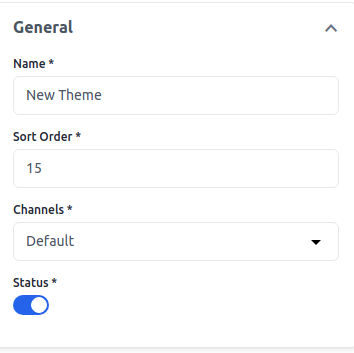
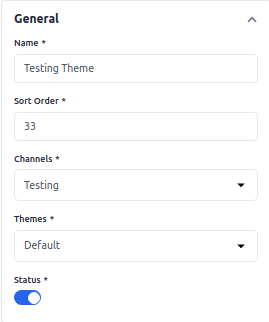
v2.2.0 Code Refactor

diff --git a/docs/2.2.0/configure/configurations.md b/docs/2.2.0/configure/configurations.md
@@ -295,6 +295,31 @@ After clicking on the **Save Configuration** button.
 
  ![Taxes](../../assets/2.2.0/images/configure/taxes.png)
 
+## Checkout
+
+Checkout configuration are listed below.
+
+### Shopping Cart
+
+Enable guest checkout, cart page, cross-sell products, and estimated shipping to enhance user convenience and streamline the shopping process for increased sales.
+
+ ![Checkout](../../assets/2.2.0/images/configure/checkout.png)
+
+### My Cart
+
+Enable settings for My Cart to show a summary of item quantities and display the total number of items in the cart for easy tracking. 
+
+  ![Checkout My Cart](../../assets/2.2.0/images/configure/checkoutMycart.png )
+
+### Mini Cart
+
+Enable Mini Cart settings to display the mini cart and show Mini Cart Offer Information for quick access to cart details and promotions.
+
+![miniCart](../../assets/2.2.0/images/configure/miniCart.png)
+
+
+
+
 ## Notifications
 
 "Notification" is a message or alert that informs users about events, updates, or actions, enhancing user engagement and awareness.
@@ -367,8 +392,14 @@ To add go to the Admin Panel and click on **Configure >> Order Settings**
 
 **Minimum Order Settings:-** Configured criteria specifying the lowest required quantity or value for an order to be processed or qualify for benefits.
 
+In the Order section added new configuration setting to that the order has Include Discount Amount, Include Tax to Amount and the Description in cart page.
+
  ![Order Settings](../../assets/2.2.0/images/configure/orderSettings.png)
 
+**Allow Reorder:-** Enable or disable the reordering feature for admin users.
+
+![Allow Reorder](../../assets/2.2.0/images/configure/allowReorder.png)
+ 
 After clicking on the **Save Configuration** button. 
 
 ## Invoice Settings

diff --git a/docs/2.2.0/settings/themes.md b/docs/2.2.0/settings/themes.md
@@ -4,6 +4,10 @@ The theme of the website is the overall look of it and that is why it plays a ma
 
 The theme contains different options like slider section with different slider options, Product section, Footer option, right-sidebar, Logo resizer option, Button settings, Blog Settings, Site preloader option, Related option, Icon changer option, full-width-template, color options, widgets, sidebar layouts, header.
 
+The theme_customizations table now supports customizations for multiple themes and multiple channels. This enhancement allows you to define different customizations for each theme and channel combination, providing greater flexibility and control over your application's appearance.
+
+Enhanced the theme customization section by adding a feature to filter attributes.
+
 ### Create Themes
 
 **Step 1:** It can be set on the admin panel by going to **Setting >> Themes**. Here you can create new role by clicking on the button **Create Theme** as shown in below image.
@@ -19,6 +23,8 @@ The theme contains different options like slider section with different slider o
 **3.Type:-** Select the Type from the dropdown according to your requirement.We have selected a product carousel in this
 
 **4.Channels:-** Select the Channel.
+
+**5.Themes:-** Select the Theme.
 
 Now click on **Save Theme** button and you will get redirected to type which you just selected.
 
@@ -44,7 +50,9 @@ Now click on **Save Theme** button and you will get redirected to type which you
 
 **3.Channels:-** Select the Channel.
 
-**4.Status** Enable the Status.
+**4.Themes** Select the themes.
+
+**5.Status** Enable the Status.
 
 ![General Theme](../../assets/2.2.0/images/settings/generalTheme.png)
 

diff --git a/docs/2.2.0/products/grouped.md b/docs/2.2.0/products/grouped.md
@@ -67,6 +67,13 @@ To add product images, click on Add Images. You can add multiple images for your
 
 ![image](../../assets/2.2.0/images/grouped-product/image.png)
 
+### Channels
+
+Select the channels in which you want to save this product.
+
+![Channels](../../assets/2.2.0/images/simple-product/channels.png)
+
+
 ### Grouped Products
 
 Search Products Under this **Search Product** section, you can simply search the Simple Product to in the Grouped Product. Once you added all the required products to the grouped product then all those simple products will be listed

diff --git a/docs/2.2.0/products/configurable.md b/docs/2.2.0/products/configurable.md
@@ -54,6 +54,12 @@ Add the product images, click on **Add Images**. You can add multiple images for
 
    ![Configurable](../../assets/2.2.0/images/configurable-product/image.png)
 
+### Channels
+
+Select the channels in which you want to save this product.
+
+![Channels](../../assets/2.2.0/images/simple-product/channels.png)
+
 ### Variations
 
 Now you will be able to see the **Variations** right below the video section as shown below. You can simply Edit each product as we have created according to the Color and Size.

diff --git a/docs/2.2.0/products/virtual.md b/docs/2.2.0/products/virtual.md
@@ -69,6 +69,12 @@ Add product images by clicking on **Add Images**. Multiple images can be added.
 
  ![image](../../assets/2.2.0/images/virtual-product/image.png)
 
+### Channels
+
+Select the channels in which you want to save this product.
+
+![Channels](../../assets/2.2.0/images/simple-product/channels.png)
+
 ### Inventory
 
 Insert the quantity of the product available in your inventory. The default is set to 0, indicating out of stock on the frontend.

diff --git a/docs/2.2.0/products/downloadable.md b/docs/2.2.0/products/downloadable.md
@@ -68,6 +68,13 @@ To add product images, click on Add Images. You can add multiple images for your
 
 ![image](../../assets/2.2.0/images/downloadable-product/image.png)
 
+### Channels
+
+Select the channels in which you want to save this product.
+
+![Channels](../../assets/2.2.0/images/simple-product/channels.png)
+
+
 ### Downloadable Information
 
 Here, enter the downloadable information about your product:

diff --git a/docs/2.2.0/products/simple.md b/docs/2.2.0/products/simple.md
@@ -78,6 +78,12 @@ Insert the quantity of the product that is there in your inventory. By default, 
 
 ![inventories](../../assets/2.2.0/images/simple-product/inventories.png)
 
+### Channels
+
+Select the channels in which you want to save this product.
+
+![Channels](../../assets/2.2.0/images/simple-product/channels.png)
+
 At last, **Save the Product**.
 
 ### Front End

diff --git a/docs/2.2.0/products/bundle.md b/docs/2.2.0/products/bundle.md
@@ -73,6 +73,12 @@ To add product images, click on **Add Images**. You can add multiple images for 
 
 ![image](../../assets/2.2.0/images/bundle-product/image.png)
 
+### Channels
+
+Select the channels in which you want to save this product.
+
+![Channels](../../assets/2.2.0/images/simple-product/channels.png)
+
 ### Bundle Item
 
 Click on Add Option and:
